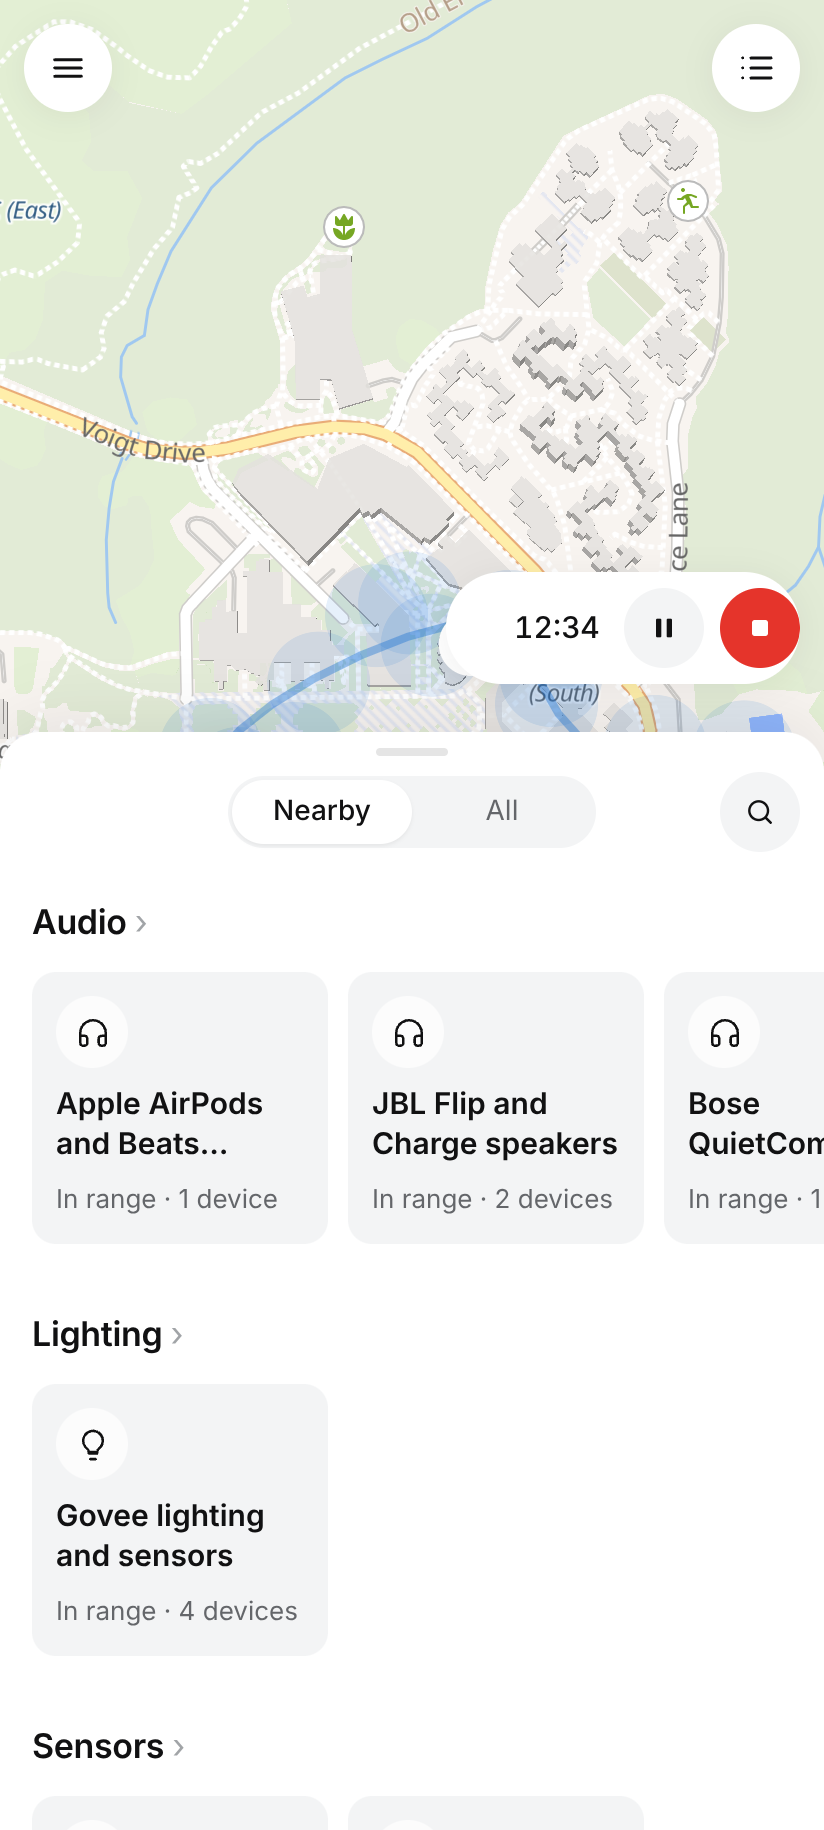
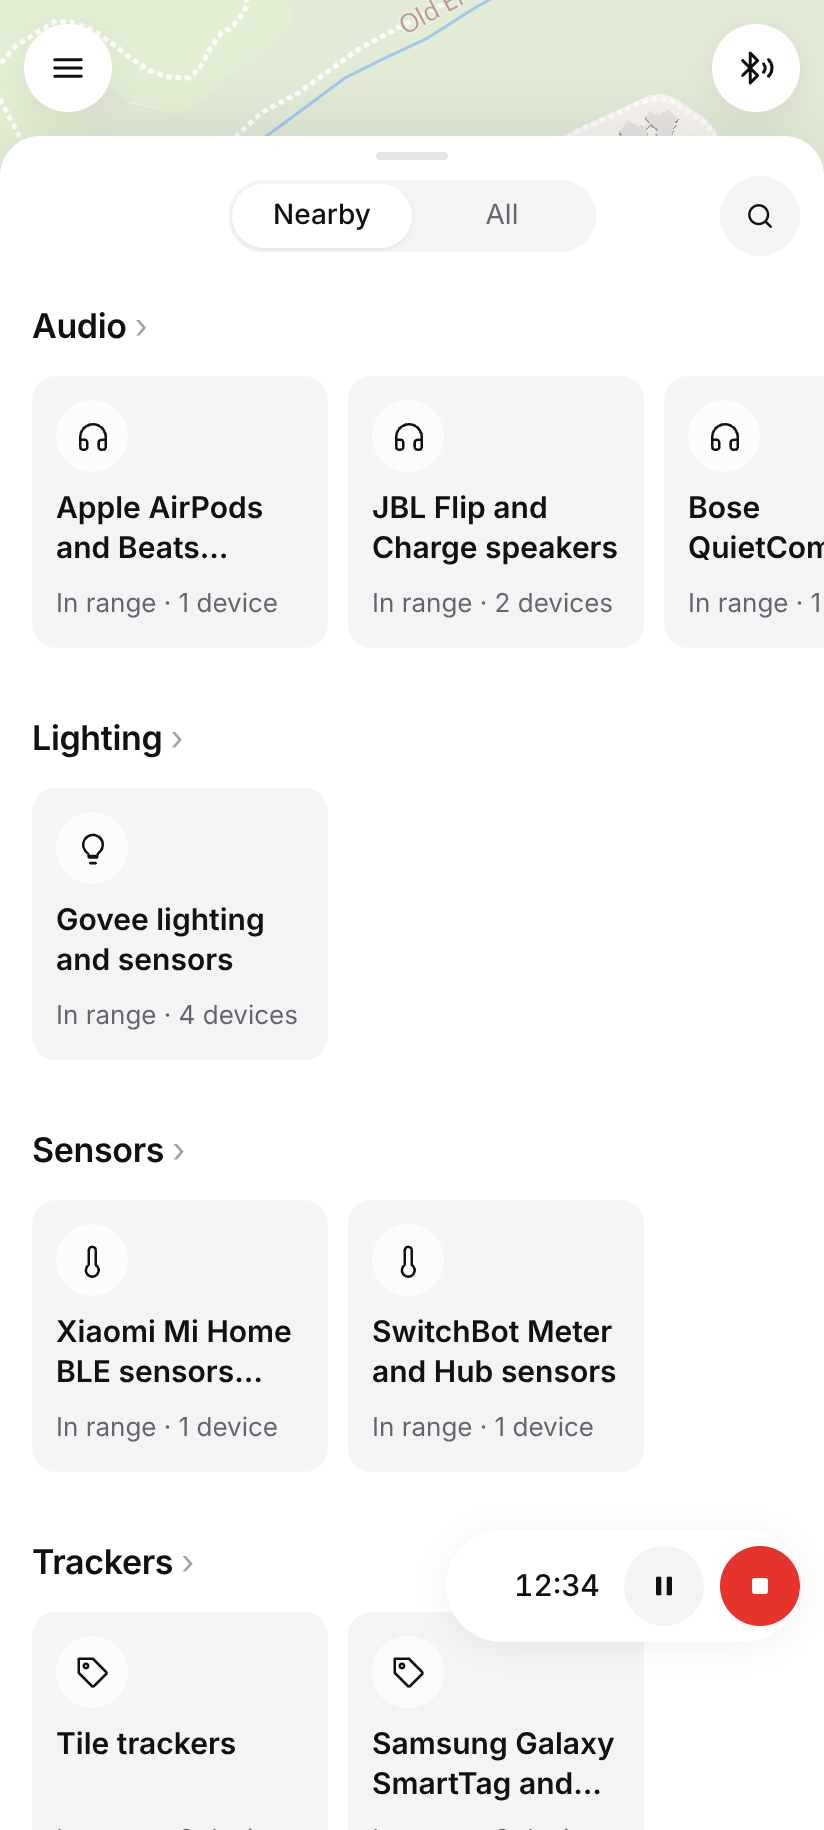
design/ui-v2: Discover sheet expands to just below the top float-button row

diff --git a/cluetooth-android/design/ui-v2/components.css b/cluetooth-android/design/ui-v2/components.css
@@ -255,9 +255,9 @@ button.item:active { background: var(--fill2); }
 
 /* ---------- Sheet (bottom sheet: device sheet and map list sheet) ---------- */
 /* Two snap states only: .collapsed shows the peek header (--peek), .expanded the whole sheet. The
-   height is fixed (--sheet-full); content scrolls inside, so tabs or content never change it. */
+   height is fixed (--sheet-expanded-h); content scrolls inside, so tabs or content never change it. */
 .sheet {
-  position: absolute; z-index: 81; left: 0; right: 0; bottom: 0; height: var(--sheet-full, calc(100% - var(--top-zone)));
+  position: absolute; z-index: 81; left: 0; right: 0; bottom: 0; height: var(--sheet-expanded-h);
   display: flex; flex-direction: column; border-radius: var(--r-sheet) var(--r-sheet) 0 0; background: var(--panel); box-shadow: var(--shadow-sheet);
   transform: translateY(calc(100% + 8px)); visibility: hidden; transition: transform var(--t-page) var(--ease), visibility var(--t-page);
 }
@@ -325,7 +325,7 @@ button.item:active { background: var(--fill2); }
 .map { position: absolute; inset: 0; background: var(--fill2); }
 
 /* ---------- Main map screen ---------- */
-.disc-sheet { z-index: 12; --sheet-full: var(--sheet-max); }
+.disc-sheet { z-index: 12; }
 .disc-head { flex: none; display: grid; grid-template-columns: var(--icon-btn) 1fr var(--icon-btn); align-items: center; gap: 8px; padding: 0 var(--edge) 10px; touch-action: none; cursor: grab; }
 .disc-center { justify-self: center; }
 .disc-center .seg { width: 184px; }

diff --git a/cluetooth-android/design/ui-v2/app.js b/cluetooth-android/design/ui-v2/app.js
@@ -281,13 +281,11 @@
     liftRecorder();
   }
 
-  /** The recorder sits above the Discover sheet: at its peek, or above it when expanded. */
+  /** The recorder sits above the Discover sheet's peek (also while the sheet is expanded, floating over it). */
   function liftRecorder() {
     const sheet = $(".disc-sheet", phone);
     let lift = 0;
-    if (sheet.classList.contains("open")) {
-      lift = sheet.classList.contains("expanded") ? sheet.offsetHeight : parseFloat(getComputedStyle(sheet).getPropertyValue("--peek")) || 0;
-    }
+    if (sheet.classList.contains("open")) lift = parseFloat(getComputedStyle(sheet).getPropertyValue("--peek")) || 0;
     phone.style.setProperty("--rec-lift", `${lift}px`);
   }
 

diff --git a/cluetooth-android/design/ui-v2/tokens.css b/cluetooth-android/design/ui-v2/tokens.css
@@ -107,7 +107,7 @@
   --side-w: 82cqw;          /* the left sidebar; the map strip beside it stays visible */
   --me-dot: 16px;
   --sheet-peek: 92px;
-  --sheet-max: 60%;        /* of the frame: the map always stays visible above it */
+  --sheet-expanded-h: calc(100% - var(--top-zone)); /* expanded sheets (device, Discover) stop below the top float-button row */
   --handle-w: 36px;
   --handle-h: 4px;
   --card-w: 148px;
